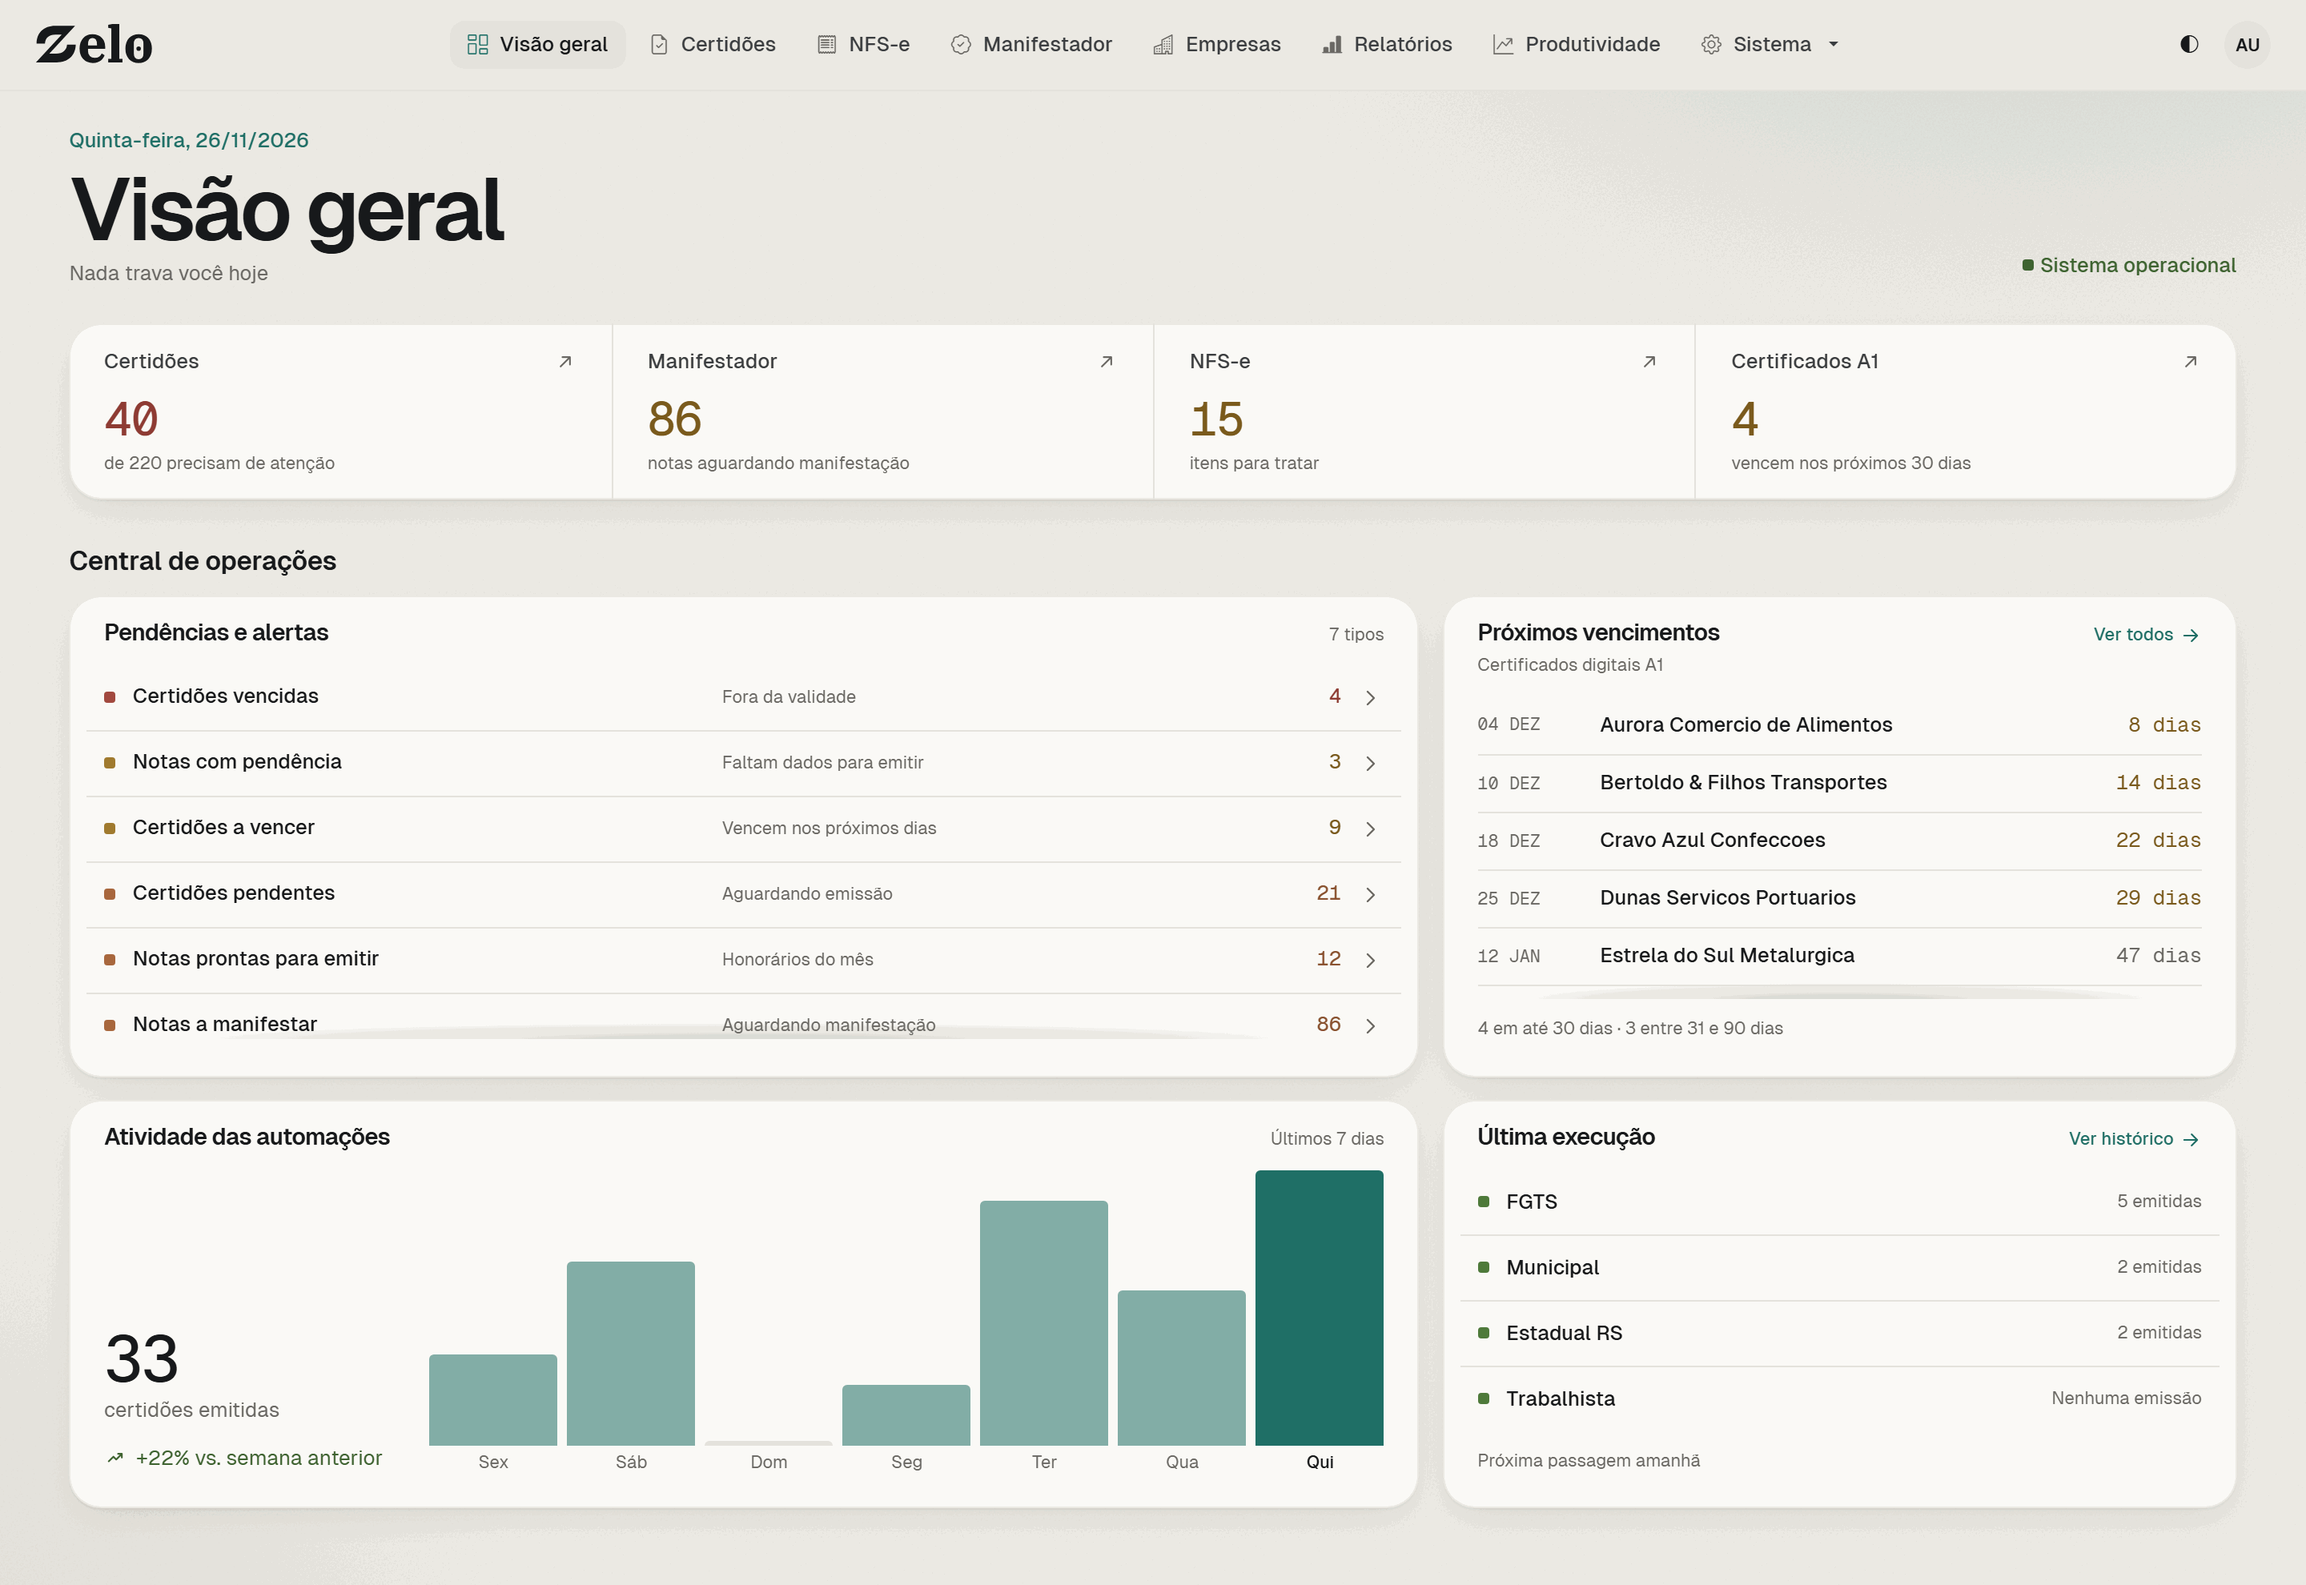
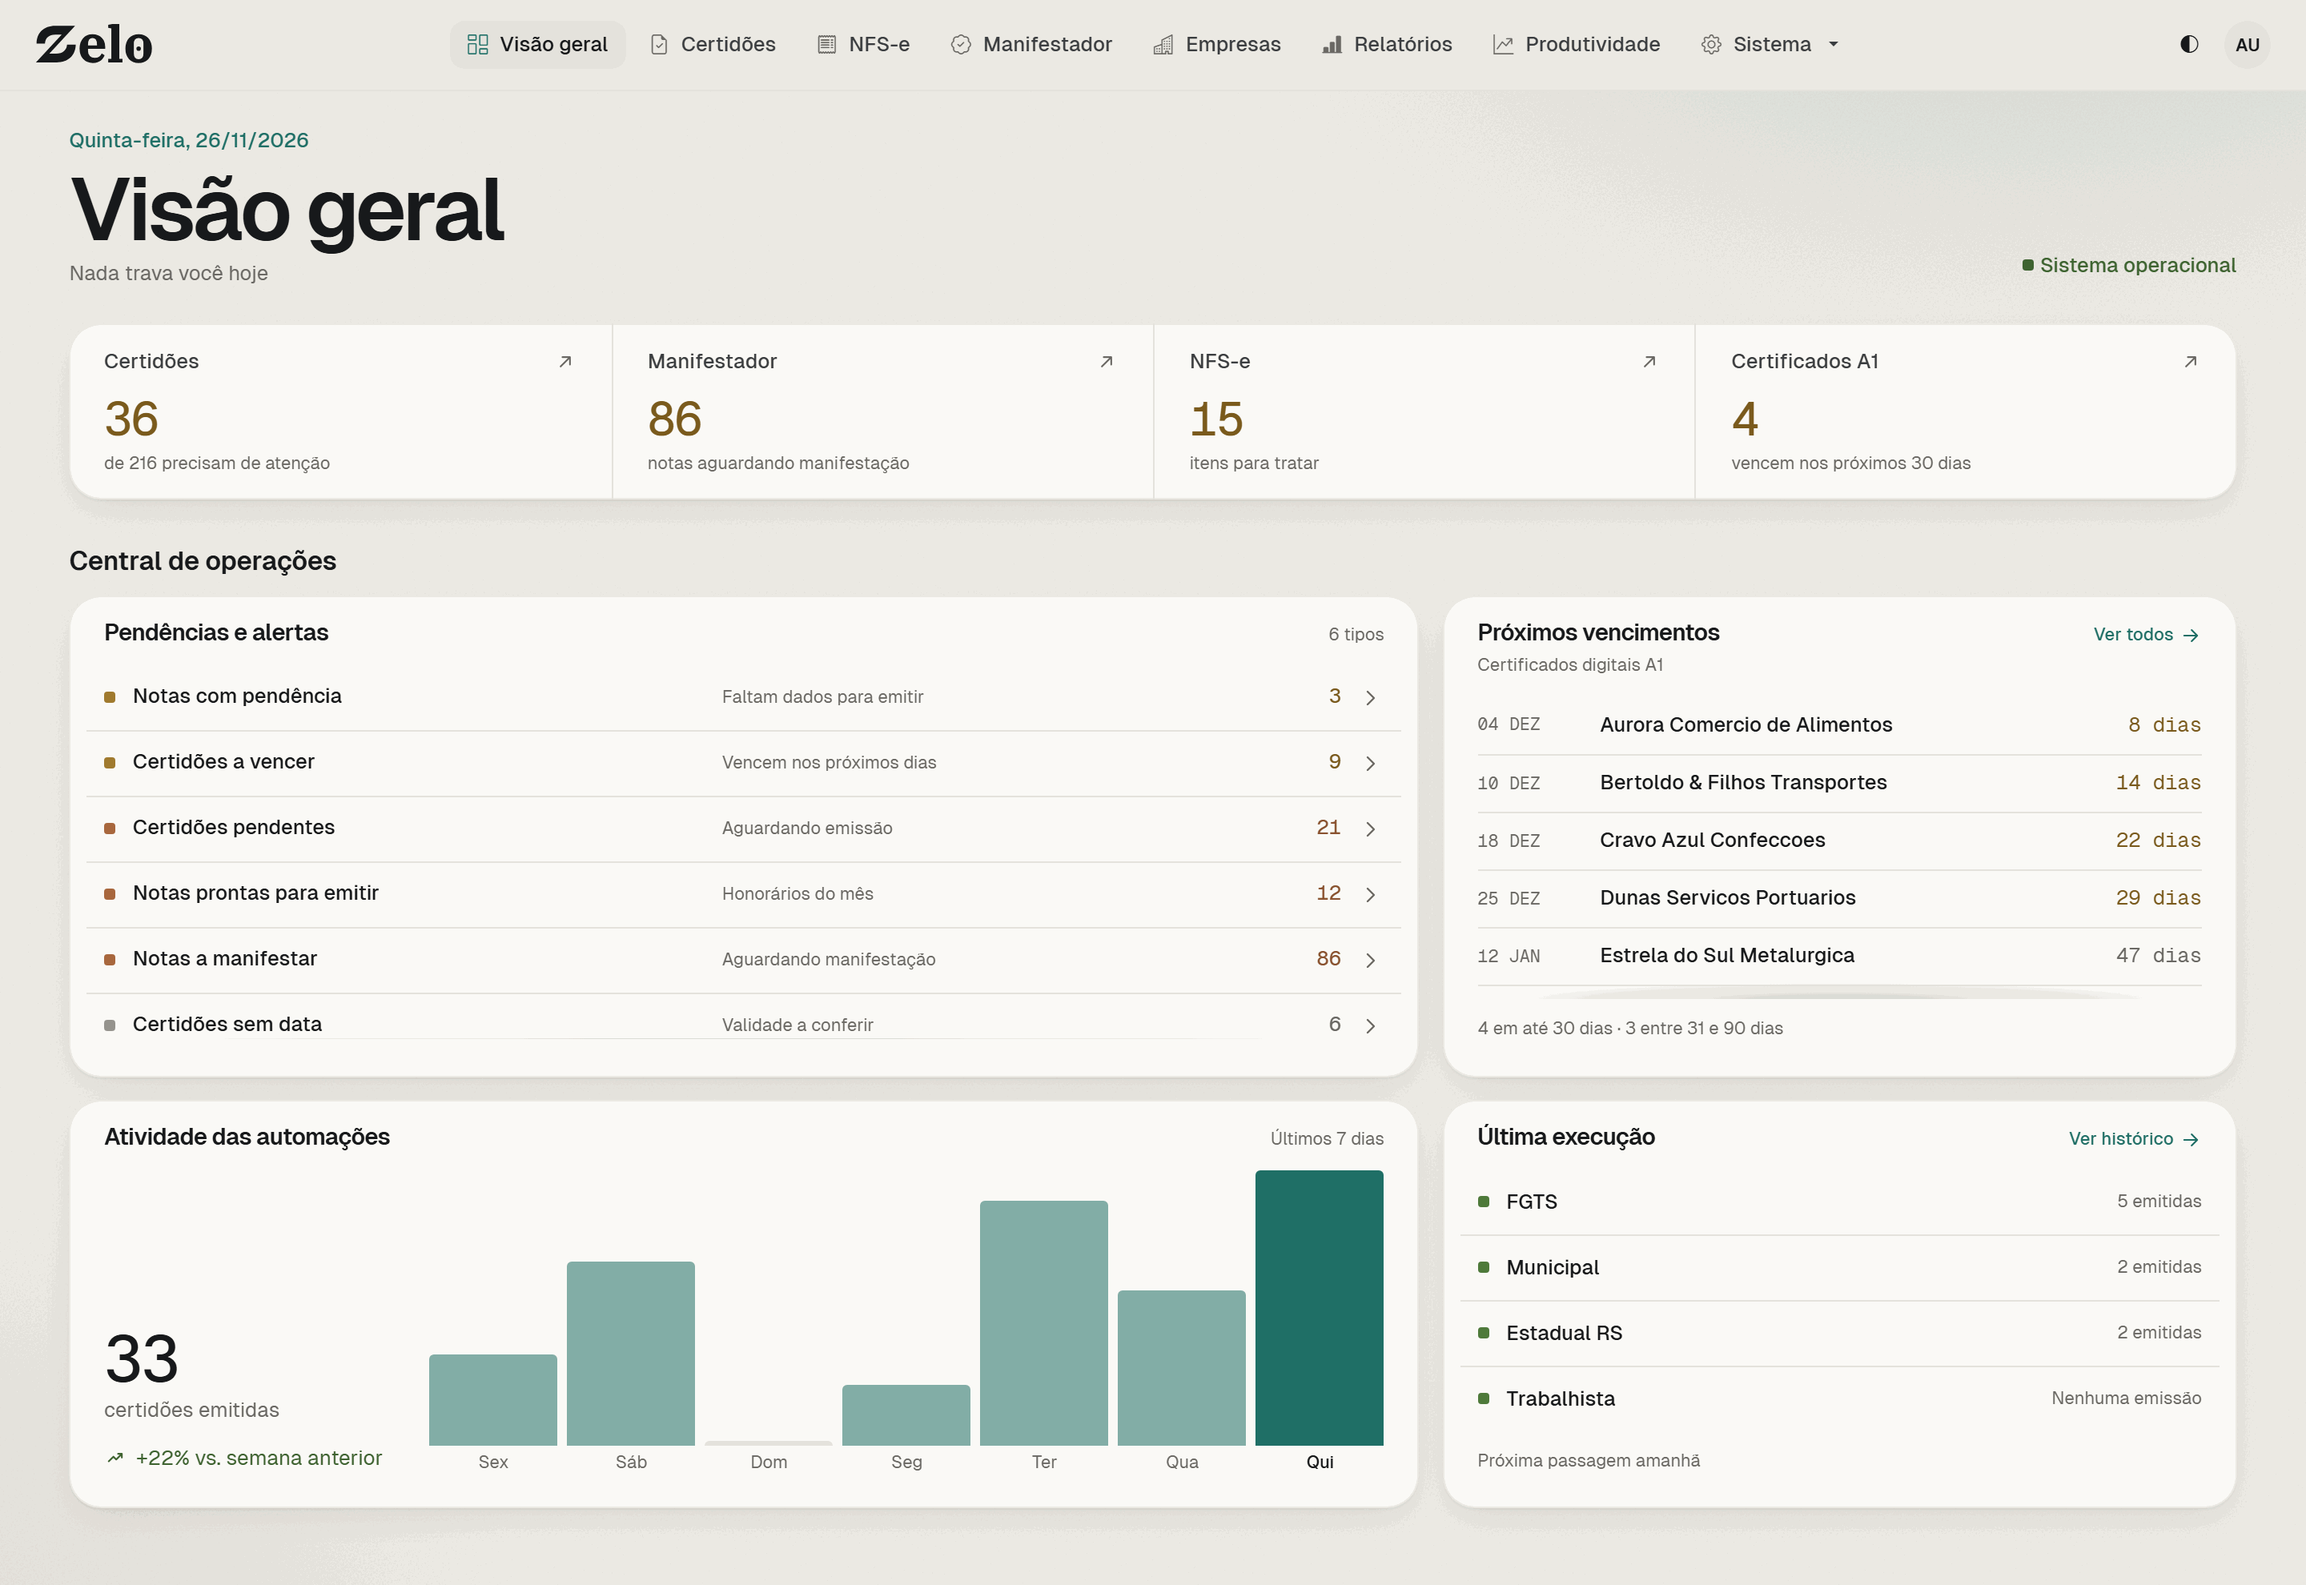
docs: foto sem certidão vencida e exportação na tela de Certidões

diff --git a/docs/CERTIDOES.md b/docs/CERTIDOES.md
@@ -96,7 +96,7 @@
 
 ## Exportação e relatórios
 
-- **Exportar carteira (Excel):** botão no dashboard baixa uma planilha `.xlsx` **respeitando os filtros ativos** (status, tipo, estado, cidade). Sai exatamente o que está na tela.
+- **Exportar carteira (Excel):** botão na tela de Certidões baixa uma planilha `.xlsx` **respeitando os filtros ativos** (status, tipo, estado, cidade). Sai exatamente o que está na tela.
 - **Dossiê (PDF) por empresa:** um único PDF com capa + as certidões **válidas** concatenadas, pronto para licitação/cliente (papel operador). PDF ausente/corrompido é pulado com aviso.
 - **Produtividade:** página `/produtividade` com emissões/dia, taxa de sucesso por tipo, tempo médio de lote (30/90 dias) e a lista de empresas que falharam, com o motivo legível e o que fazer; exportação em Excel.
 - **Relatórios:** página `/relatorios` com indicadores e distribuição por status/tipo, pendências detalhadas com rankings por tipo e município, as últimas 100 certidões emitidas, o gráfico de evolução por status.
